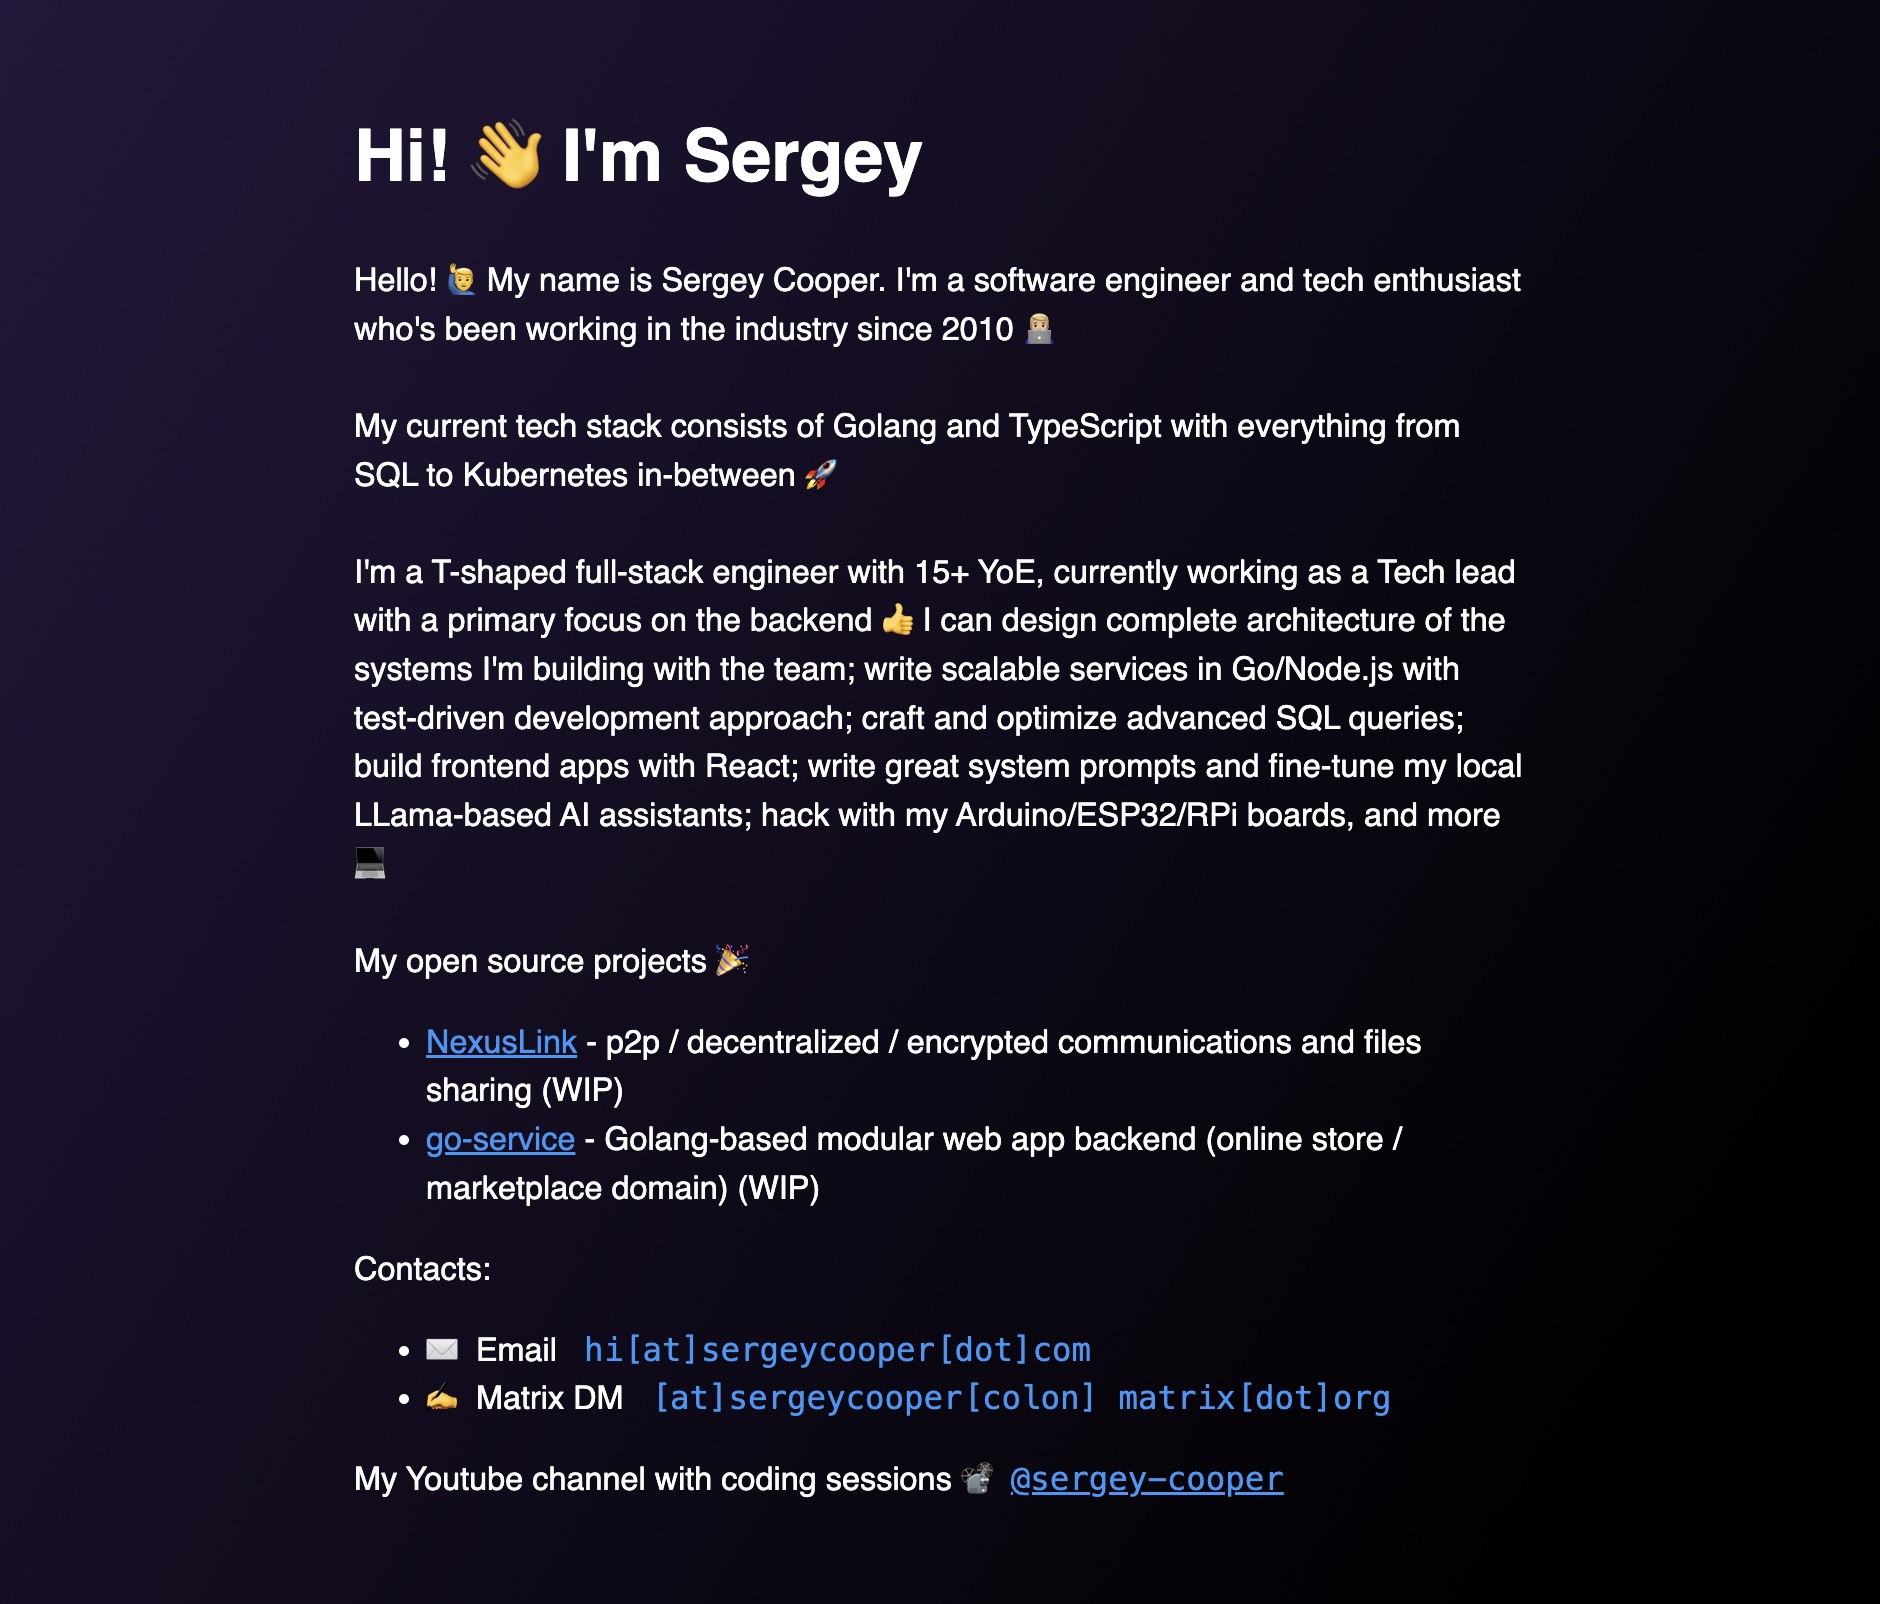
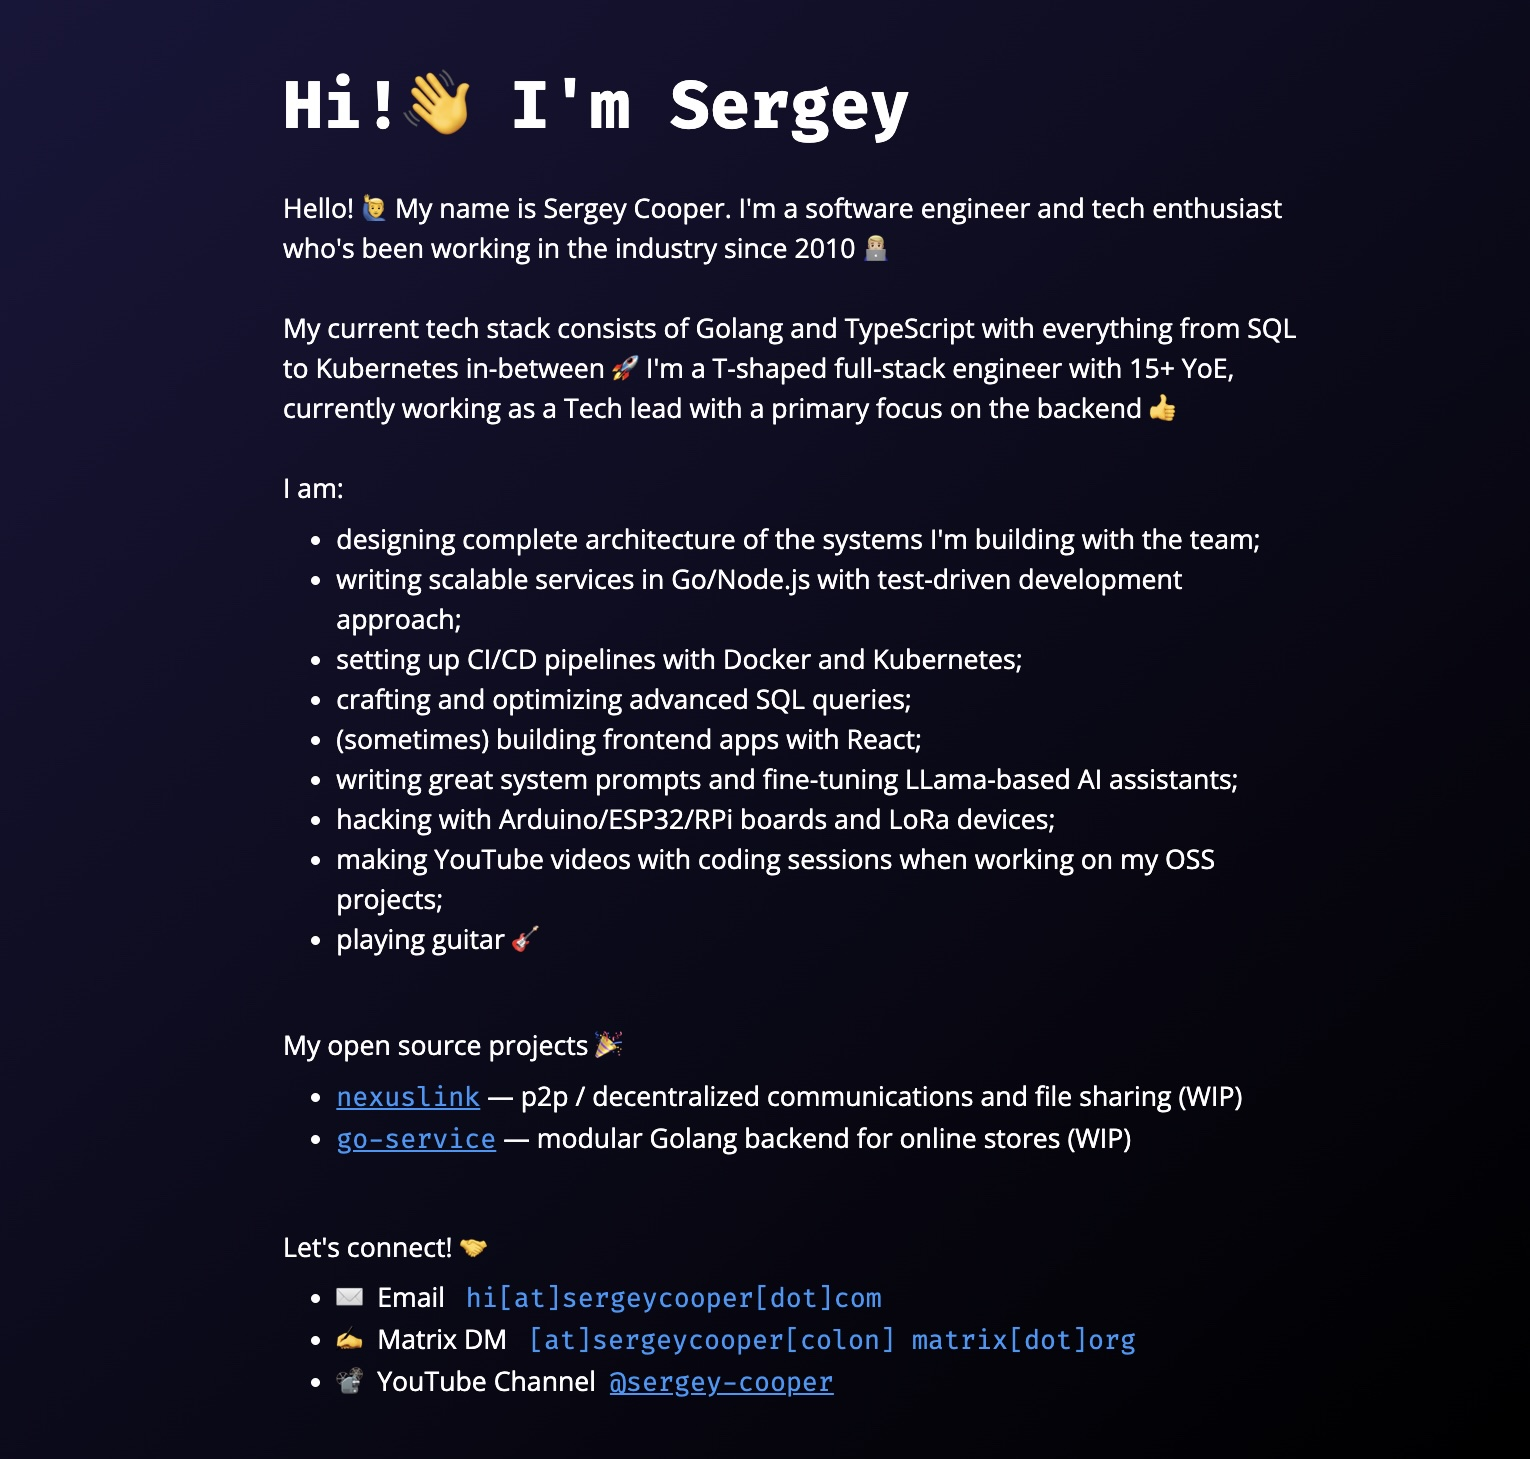
add google fonts; update preview img

Changed region(s): [[0.1843, 0.0308, 0.8601, 0.8019], [0.1843, 0.8328, 0.7373, 0.9561]]

diff --git a/index.html b/index.html
@@ -20,13 +20,23 @@
         <meta name="twitter:title" content="Sergey Cooper">
         <meta name="twitter:description" content="Software engineer and tech enthusiast. Full-stack developer with 15+ YoE specializing in Golang and TypeScript.">
         <meta name="twitter:image" content="./assets/001-site-preview.jpg">
+
+        <!-- Fonts -->
+         <!-- Open Sans -->
+        <link rel="preconnect" href="https://fonts.googleapis.com">
+        <link rel="preconnect" href="https://fonts.gstatic.com" crossorigin>
+        <link href="https://fonts.googleapis.com/css2?family=Open+Sans:ital,wght@0,300..800;1,300..800&display=swap" rel="stylesheet">
+        <!-- Fira Code -->
+        <link rel="preconnect" href="https://fonts.googleapis.com">
+        <link rel="preconnect" href="https://fonts.gstatic.com" crossorigin>
+        <link href="https://fonts.googleapis.com/css2?family=Fira+Code:wght@300..700&display=swap" rel="stylesheet">
     </head>
 
     <body>
       <div class="container">
         <div class="inner-container">
           <div class="typewriter-container">
-            <div class="title typewriter">Hi! 👋 I'm Sergey</div>
+            <div class="title typewriter code">Hi!👋 I'm Sergey</div>
           </div>
           <br/>
           <div class="content-container">
@@ -59,11 +69,13 @@
 
               My open source projects 🎉
               <ul class="list">
-                <li><a href="https://github.com/ulshv/nexuslink">
-                  NexusLink</a> - p2p / decentralized communications and file sharing (WIP)
+                <li>
+                  <a class="code blue-text" href="https://github.com/ulshv/nexuslink">nexuslink</a>
+                  — p2p / decentralized communications and file sharing (WIP)
                 </li>
-                <li><a href="https://github.com/ulshv/go-service">
-                  go-service</a> - modular Golang backend for online stores (WIP)
+                <li>
+                  <a class="code blue-text" href="https://github.com/ulshv/go-service">go-service</a>
+                  — modular Golang backend for online stores (WIP)
                 </li>
               </ul>
 
@@ -71,8 +83,8 @@
 
               Let's connect! 🤝
               <ul class="list">
-                <li>✉ &nbsp;Email &nbsp; <span class="code">hi[at]sergeycooper[dot]com</span> &nbsp;</li>
-                <li>✍ &nbsp;Matrix DM &nbsp; <span class="code">[at]sergeycooper[colon] matrix[dot]org</span></li>
+                <li>✉ &nbsp;Email &nbsp; <span class="code blue-text">hi[at]sergeycooper[dot]com</span> &nbsp;</li>
+                <li>✍ &nbsp;Matrix DM &nbsp; <span class="code blue-text">[at]sergeycooper[colon] matrix[dot]org</span></li>
                 <li>📽 &nbsp;YouTube Channel &nbsp;<a class="code" href="https://www.youtube.com/@sergey-cooper">@sergey-cooper</a></li>
               </ul>
 

diff --git a/styles.css b/styles.css
@@ -1,6 +1,6 @@
 * {
   box-sizing: border-box;
-  font-family: sans-serif;
+  font-family: 'Open Sans', sans-serif;
   color: #fff;
 }
 
@@ -43,11 +43,14 @@ body {
 }
 
 .code {
-  font-family: monospace;
-  color: #2e98fa;
+  font-family: 'Fira Code', monospace;
 }
 
 a {
+  color: #2e98fa;
+}
+
+.blue-text {
   color: #2e98fa;
 }
 
